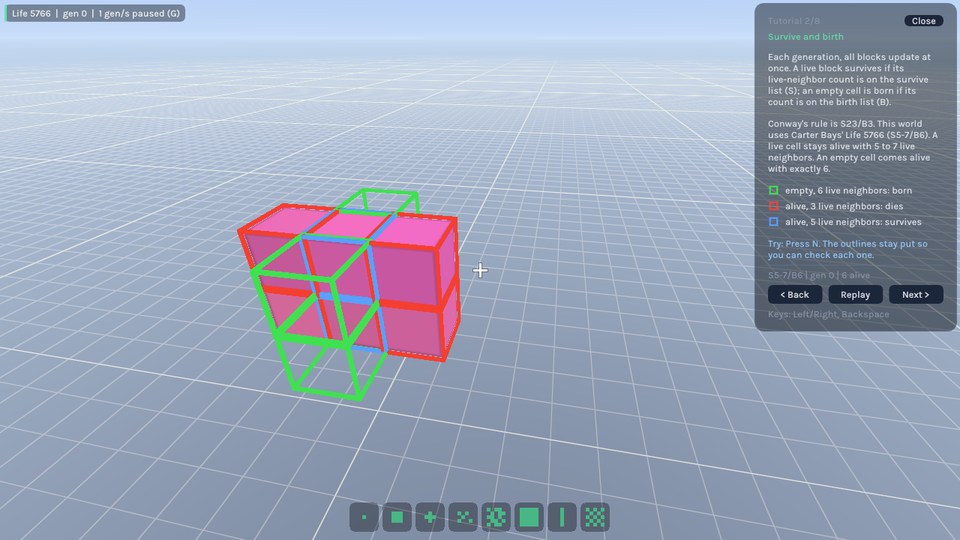
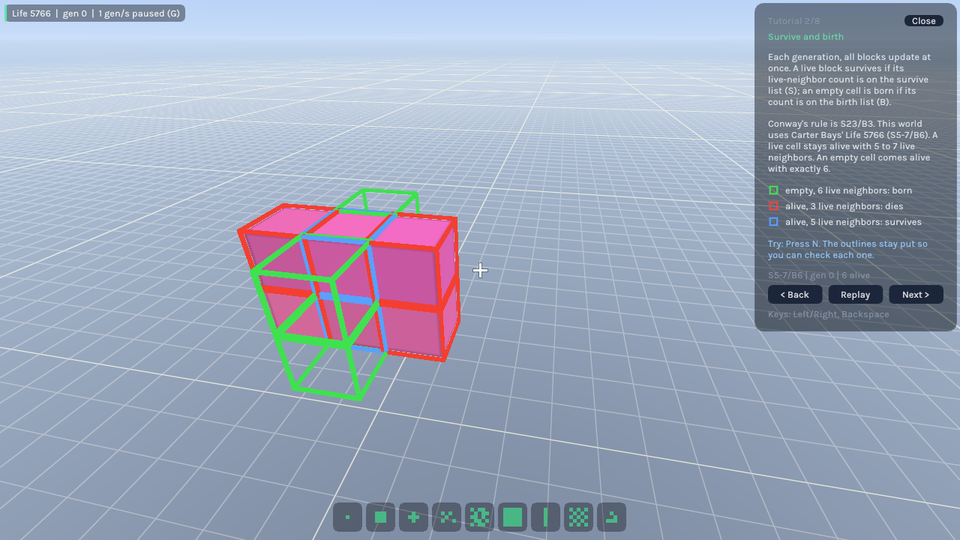
docs: document the glider stamp and tilt, recapture screenshots
Add key 9 and Z/C to the controls, explain how a turned glider travels a
turned path, add a GIF of a tilted glider climbing, and recapture the
screenshots and sandbox GIF with the 9-slot hotbar.

Changed region(s): [[0.3438, 0.9185, 0.6562, 1.0]]

diff --git a/scripts/readme-media/capture_3d.py b/scripts/readme-media/capture_3d.py
@@ -298,6 +298,58 @@ def glider(tmp):
     )
 
 
+def climb(tmp):
+    """The Glider stamp tilted with Z: it slides sideways while it climbs."""
+    world = tmp / "climb.life3d"
+    place = [
+        "--rule",
+        "1",
+        "--empty",
+        "--fly",
+        "--pos",
+        "0.5,4.5,4",
+        "--look",
+        "-90,-70",
+    ]
+    place += [
+        "--slot",
+        "9",
+        "--tilt",
+        "-1",
+        "--place",
+        "--frames",
+        "1",
+        "--save",
+        str(world),
+    ]
+    subprocess.run(
+        [str(GAME), "--resize", "320,180", *place], check=True, capture_output=True
+    )
+    frames = (
+        33  # eight periods: the tilted glider moves (+1, +1, 0) every 4 generations
+    )
+    camera = orbit_camera((4, 4, 1.5), 15, 6, math.radians(90))
+    for i in range(frames):
+        path = tmp / f"climb_{i:03d}.png"
+        shoot(
+            path,
+            (800, 450),
+            "--load",
+            world,
+            "--steps",
+            i,
+            "--fly",
+            "--slot",
+            0,
+            *camera,
+        )
+        image = crop_hotbar(Image.open(path))
+        label(image, f"Glider stamp tilted with Z   generation {i}")
+        image.save(path)
+    paths = [tmp / f"climb_{i:03d}.png" for i in range(frames)]
+    encode_gif_pillow(paths, OUT / "glider-climb.gif", 5, 560, hold_last=1, colors=192)
+
+
 def tutorial():
     """Tutorial lesson 2: every cell outlined by what happens to it next."""
     path = OUT / "tutorial-survive-birth.png"
@@ -357,6 +409,7 @@ def main():
         "rules",
         "sandbox",
         "glider",
+        "climb",
         "tutorial",
         "menus",
     }
@@ -370,6 +423,8 @@ def main():
             sandbox(tmp)
         if "glider" in wanted:
             glider(tmp)
+        if "climb" in wanted:
+            climb(tmp)
     if "tutorial" in wanted:
         tutorial()
     if "menus" in wanted:

diff --git a/README.md b/README.md
@@ -129,6 +129,14 @@ runs Conway's game, and Bays' 5766 glider turns out to be Conway's glider, two b
 Life 4555 has no such copy (its birth count, 5, is odd, and an empty cell in a two-layer slab always has an even
 count), so its glider is a different 10-cell shape. The in-game tutorial shows both.
 
+The rules treat every direction alike, so a turned glider travels a turned path. Pick the **Glider** stamp
+(<kbd>9</kbd>): on the ground it lies flat and slides diagonally across the floor, and <kbd>Q</kbd>/<kbd>E</kbd>
+choose which way. Tilt it with <kbd>Z</kbd> or <kbd>C</kbd> and it stands up, moving sideways while it climbs
+(<kbd>Z</kbd>) or dives (<kbd>C</kbd>); life can keep going below the floor. In all, a glider can head in 12
+directions, 8 of them partly up or down.
+
+![The Glider stamp tilted with Z: Bays' glider climbs one block up and one block over every 4 generations](docs/media/glider-climb.gif)
+
 Same seed, same number of generations, four different rules:
 
 ![Four rules compared side by side: Life 5766, Life 4555, Conway's numbers and Coral](docs/media/rules-compared.gif)
@@ -172,7 +180,7 @@ from the hotbar, place blocks of life, press <kbd>G</kbd>, and watch.
 
 *Three 16³ soups placed from the hotbar, then run under Life 5766.*
 
-**Hotbar stamps** (keys <kbd>1</kbd> to <kbd>8</kbd>):
+**Hotbar stamps** (keys <kbd>1</kbd> to <kbd>9</kbd>):
 
 | Key | Stamp |
 | -- | -- |
@@ -184,6 +192,7 @@ from the hotbar, place blocks of life, press <kbd>G</kbd>, and watch.
 | <kbd>6</kbd> | 5×5 wall |
 | <kbd>7</kbd> | 8-block pillar |
 | <kbd>8</kbd> | The current rule's seed soup |
+| <kbd>9</kbd> | Glider: Bays' glider for the current rule (Life 5766 or Life 4555) |
 
 Press the selected number again to empty your hand. Reach is 6 blocks. What you place lands on the face of the
 block you're looking at, or on the ground, or in the air 4 blocks ahead, in that order. A white outline shows
@@ -233,8 +242,9 @@ Simulation actions live on keys Minecraft leaves unbound.
 | -- | -- |
 | Left click | Place the selected stamp (hold to repeat) |
 | Right click | Remove the outlined block (hold to repeat) |
-| <kbd>1</kbd>–<kbd>8</kbd>, scroll wheel | Select a hotbar stamp; press the selected number again for an empty hand |
-| <kbd>Q</kbd> / <kbd>E</kbd> | Rotate the selected stamp a quarter turn |
+| <kbd>1</kbd>–<kbd>9</kbd>, scroll wheel | Select a hotbar stamp; press the selected number again for an empty hand |
+| <kbd>Q</kbd> / <kbd>E</kbd> | Rotate the selected stamp a quarter turn around the surface |
+| <kbd>Z</kbd> / <kbd>C</kbd> | Tilt the selected stamp a quarter turn around the x axis |
 | <kbd>Tab</kbd> | Stamps & Rules screen |
 
 ### Simulation
@@ -429,8 +439,6 @@ ctest --test-dir build/prototype -LE gpu    # CPU only (no GPU or display needed
 - **Add a rule.** Append an entry to `lifeRules()` in `include/Life3DRules.h` (and bump the array size). Give it
   a name, survive and birth masks, a seed density and size, and a plain-English description. It then shows up in
   the <kbd>R</kbd> cycle and the Stamps & Rules screen automatically.
-- **Add glider stamps.** Both of Bays' gliders are in `include/Life3DPatterns.h` and the tutorial, but you can't
-  place one from the hotbar yet.
 - **Pattern files.** Import and export patterns in a documented text format.
 
 ### Regenerating the README media

diff --git a/docs/PROTOTYPE.md b/docs/PROTOTYPE.md
@@ -26,6 +26,7 @@ click removes. Simulation actions use keys Minecraft leaves unbound.
 | Esc | Pause menu (world freezes): Back to Game, Stamps & Rules, New World, Save/Load, Tutorial, Settings, Quit |
 | Tab | Stamps & Rules screen: pick a stamp or the empty hand, and switch rules (hover for descriptions) |
 | Q / E | Rotate the selected stamp a quarter turn around the surface you place on |
+| Z / C | Tilt the selected stamp a quarter turn around the world x axis (Z climbs, C dives for a glider) |
 | W A S D | Move |
 | Space | Jump; fly up while flying |
 | Double-tap Space | Toggle flying (as in creative mode) |
@@ -33,7 +34,7 @@ click removes. Simulation actions use keys Minecraft leaves unbound.
 | Left Ctrl | Sprint |
 | Left click | Place the selected hotbar stamp (hold to repeat) |
 | Right click | Remove the outlined block (hold to repeat) |
-| 1-8, scroll wheel | Select a hotbar stamp. Pressing the selected number again empties your hand: nothing is placed and no placement outline is shown. |
+| 1-9, scroll wheel | Select a hotbar stamp. Pressing the selected number again empties your hand: nothing is placed and no placement outline is shown. |
 | G | Run or pause generations |
 | N | Advance one generation (hold to repeat) |
 | [ and ] (or - and +) | Slower / faster: 0.5 to 60 generations per second (starts at 1) |
@@ -93,13 +94,16 @@ The user data folder for saves and screenshots:
 - 5x5 wall
 - 8-block pillar
 - The current rule's seed soup
+- Glider: Bays' glider (Life 4555's under Life 4555, Life 5766's otherwise). It
+  lies flat on the ground and stands up on a wall; Q/E set its heading and Z/C
+  tilt it so it climbs or dives.
 
 **Targeting:** reach is 6 blocks. What you place goes on the first of these:
 - the face of the block you target;
 - the y = 0 ground;
 - empty air 4 blocks ahead.
 
-A white outline shows where the whole stamp will go, including its rotation. Stamps grow
+A white outline shows where the whole stamp will go, including its rotation and tilt. Stamps grow
 away from the surface. A wall placed on the ground stands up across your view.
 Cells that would overlap the player are skipped.
 
@@ -237,6 +241,7 @@ Other scripted actions:
 - `--save PATH` writes the world on exit;
 - `--load PATH` opens a save.
 - `--rotate N` turns the stamp N quarter turns.
+- `--tilt N` tilts the stamp N quarter turns around x.
 - `--update-feed URL` checks a releases JSON (a `file://` URL works) instead of GitHub.
 
 Run `gol3d --help` for all options.
